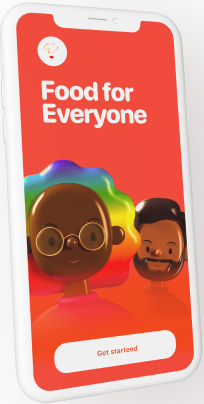
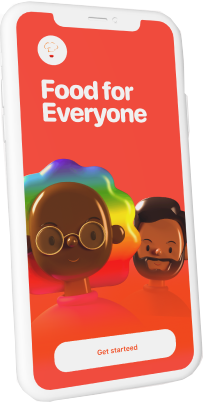
removendo fundo img

diff --git a/assests/css/style.css b/assests/css/style.css
@@ -96,7 +96,7 @@ header nav div.right ul.menu-nav {
 
 header div.highlight {
     width: 100vw;
-    height: 778px;
+    padding-bottom: 20px;
     background-color: #FAFAFA;
 }
 
@@ -145,7 +145,7 @@ header div.highlight div.highlight-buttons button {
     height: 68px;
     margin: 17px auto;
     border-radius: 30px;
-    box-shadow: 0px 40px 40px rgba(0, 0, 0, 0.07);
+    background-color: transparent;
     border: 1px solid #FA4A0C;
     box-sizing: border-box;
 }
@@ -175,18 +175,47 @@ header div.highlight div.highlight-buttons button.second-button p {
 
 /* MAIN */
 /* CONTAINER 2 */
-
-main div.container-2 div.two-images {}
-
-main div.container-2 div.two-images img.first-img {
-    width: 230px;
-    height: 451px;
+main {
+    background-color: #FAFAFA;
 }
 
-main div.container-2 div.two-images img.first-img {
-    width: 219px;
-    height: 408px;
+main div.container2 div.two-images {
+    display: flex;
+    height: 360px;
 }
+
+main div.container2 div.two-images figure.first-img {
+    margin-right: -10px;
+    z-index: 1;
+}
+
+main div.container2 div.two-images figure.first-img img {
+    filter: drop-shadow(50px 30px 150px rgba(46, 4, 4, 0.21));
+}
+
+main div.container2 div.two-images figure.second-img {
+    display: flex;
+    align-items: flex-end;
+}
+
+
+main div.container2 div.two-images figure img {
+    width: 165px;
+}
+
+main div.container2 hr {
+    width: 100vw;
+    border: 1px solid #E4E4E4;
+}
+
+main div.container2 p {
+    font-family: 'Montserrat', sans-serif;
+    font-weight: 600;
+    font-size: 24px;
+    line-height: 36px;
+    letter-spacing: 0.1px;
+}
+
 
 
 
@@ -228,6 +257,13 @@ main div.flex div.section-txt h4 {
     color: #737373;
     padding: 0 50px;
     margin-bottom: 40px;
+}
+
+main div.flex div.section-img {
+    width: 100vw;
+    display: flex;
+    justify-content: center;
+    filter: drop-shadow(50px 30px 150px rgba(46, 4, 4, 0.15));
 }
 
 /* ÚLIMO CONTAINER */

diff --git a/index.html b/index.html
@@ -63,12 +63,12 @@
         <main>
             <div class="flex container2">
                 <div class="two-images">
-                    <figure>
-                        <img class="first-img" src="assests/img/Smartphone1-Home.png" alt="Home Page">
+                    <figure class="first-img">
+                        <img src="assests/img/Smartphone1-Home.png" alt="Home Page">
                         <figcaption class="hidden">Home Page</figcaption>
                     </figure>
-                    <figure>
-                        <img class="second-img" src="assests/img/Smartphone2-Home-Search.png" alt="Home Page Search">
+                    <figure class="second-img">
+                        <img src="assests/img/Smartphone2-Home-Search.png" alt="Home Page Search">
                         <figcaption class="hidden">Home Page Search</figcaption>
                     </figure>
                 </div>
